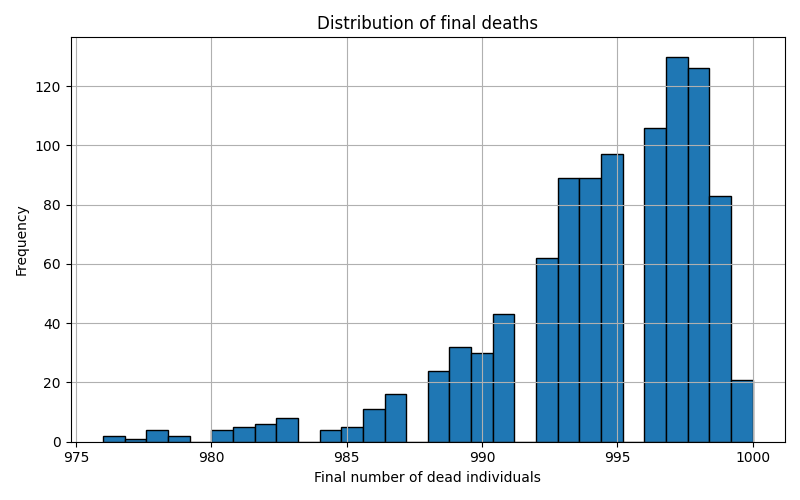
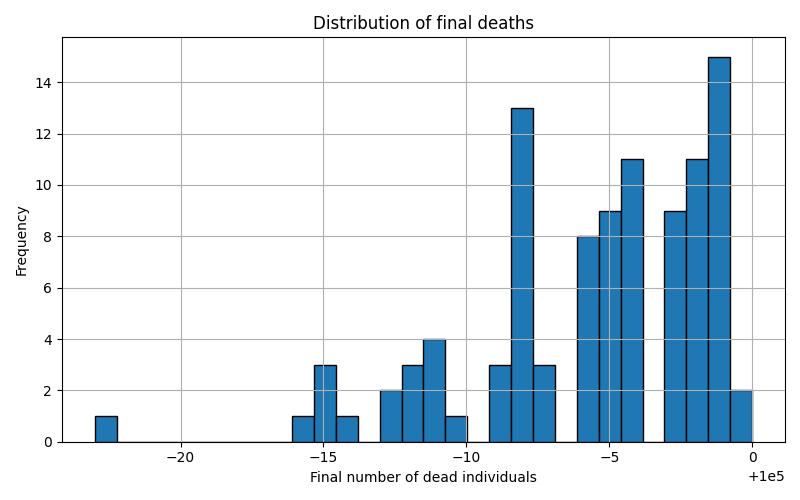
...

diff --git a/Stochastic-Simulation/Project-2/markov_implementaion_sisd.py b/Stochastic-Simulation/Project-2/markov_implementaion_sisd.py
@@ -83,11 +83,11 @@ def simulate_sisd(N, I0, beta, gamma, mu, t_max=np.inf):
         # Decide event type
         u = np.random.rand()
 
-        print("u", u)
-        print("dt", dt)
-        print("infection", infection_rate / total_rate)
-        print("recovery", (recovery_rate) / total_rate)
-        print("Death", 1 - (infection_rate + recovery_rate) / total_rate)
+        # print("u", u)
+        # print("dt", dt)
+        # print("infection", infection_rate / total_rate)
+        # print("recovery", (recovery_rate) / total_rate)
+        # print("Death", 1 - (infection_rate + recovery_rate) / total_rate)
         
 
         if u < infection_rate / total_rate:
@@ -143,6 +143,7 @@ def run_many_simulations(N, I0, beta, gamma, mu, n_simulations, major_outbreak_t
     major_outbreaks = []
 
     for _ in range(n_simulations):
+        print("Running simulation for summary", _)
         times, states, events = simulate_sisd(N, I0, beta, gamma, mu)
 
         S = states[:, 0]
@@ -227,7 +228,15 @@ def plot_many_sisd_trajectories(N, I0, beta, gamma, mu, n_simulations, t_max=160
     """
     plt.figure(figsize=(10, 6))
 
+    # Fixed colors for each compartment
+    colors = {
+        "S": "tab:blue",
+        "I": "tab:orange",
+        "D": "tab:green"
+    }
+
     for _ in range(n_simulations):
+        print("Runing sim for plot", _)
         times, states, events = simulate_sisd(
             N=N,
             I0=I0,
@@ -241,28 +250,30 @@ def plot_many_sisd_trajectories(N, I0, beta, gamma, mu, n_simulations, t_max=160
         I = states[:, 1]
         D = states[:, 2]
 
-        plt.plot(times, S, alpha=0.15, linewidth=1)
-        plt.plot(times, I, alpha=0.15, linewidth=1)
-        plt.plot(times, D, alpha=0.15, linewidth=1)
+        plt.plot(times, S, color=colors["S"], alpha=0.15, linewidth=1)
+        plt.plot(times, I, color=colors["I"], alpha=0.15, linewidth=1)
+        plt.plot(times, D, color=colors["D"], alpha=0.15, linewidth=1)
 
     plt.xlabel("Time")
     plt.ylabel("Number of individuals")
     plt.title("Stochastic SISD trajectories")
     plt.grid(True, linestyle="--", alpha=0.5)
 
-    plt.plot([], [], label="Susceptible")
-    plt.plot([], [], label="Infected")
-    plt.plot([], [], label="Dead")
+    # Dummy plots for legend with matching colors
+    plt.plot([], [], color=colors["S"], label="Susceptible")
+    plt.plot([], [], color=colors["I"], label="Infected")
+    plt.plot([], [], color=colors["D"], label="Dead")
     plt.legend()
 
     plt.tight_layout()
     plt.savefig("assets_test/sisd_trajectories.png")
+    plt.show()
 
 def main():
     np.random.seed(42)
 
     # Population settings
-    N = 1000
+    N = 100000
     I0 = 20
 
     # Disease parameters
@@ -286,7 +297,7 @@ def main():
     )
 
     # Many simulations
-    n_simulations = 1000
+    n_simulations = 100
 
     results = run_many_simulations(
         N=N,
